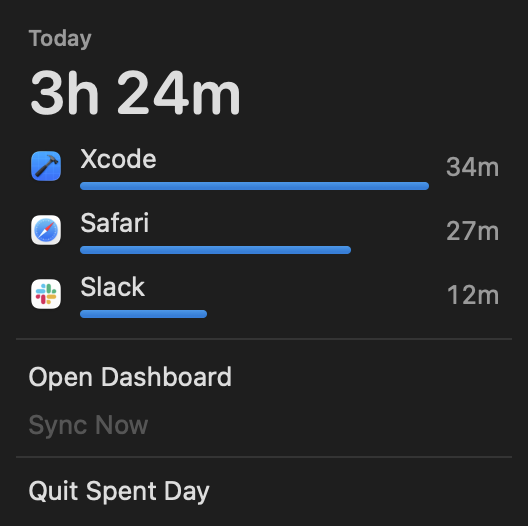
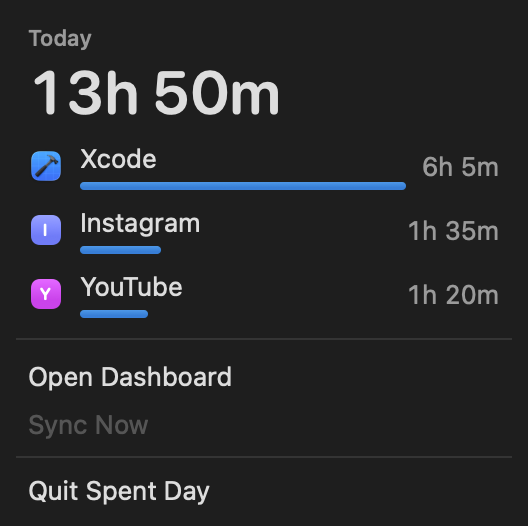
Refresh macOS screenshots for the treemap day view

diff --git a/apps/macos/README.md b/apps/macos/README.md
@@ -4,6 +4,20 @@ A menu bar app on top of the Rust core. `build.sh` builds `build/Spent Day.app`,
 
 It needs a Mac with Apple Silicon and Rust stable. The app runs on macOS 14 or later. Building needs Xcode 16 or later, or just its Command Line Tools, for Swift 6, and those need macOS 14.5 or later. `verify.sh` also needs jq. The scripts build for arm64 only, so Intel Macs aren't supported yet.
 
+## Day view
+
+The dashboard shows one local calendar day. Previous and next controls step days; Command-Left and Command-Right do the same. Next stops at today. The total counts time on overlapping screens once. Device groups show their separate totals.
+
+Tiles show apps and sites without icons. Hover for sessions, click a device name to fill the map with that device, or click a tile to see its sessions in time order. Tab and arrow keys move focus, Return opens a tile, and Escape goes back. Details shows overlapping time, the longest stretch, time after 23:00, and every app and site per device. Items under 0.3% of the day share an Other tile.
+
+The weekday comparison uses the previous four matching weekdays that have data. It appears only when at least two have data. For today, each historical sample ends at the current local time of day. Light and dark appearances follow the system. Tile colours come from local app icons or stable hashes, with black or white labels that keep at least 4.5:1 contrast when dimmed. Sites never fetch favicons.
+
+Run `apps/macos/test.sh` for collector, day bounds, layout and colour checks. Run `apps/macos/snapshot.sh` for the fixed 28 October 2026 demo day in dark and light appearances, Xcode hover, device and session drills, a 720 by 560 window, an empty day, and the menu panel. Snapshot hover and drill states are injected. The snapshot comparison uses the reference day's supplied usual Wednesday total; live comparisons read historical days from the core. Demo sessions repeat on the requested local day, and demo colours stay fixed across machines.
+
+![Day view](screenshots/dashboard-day-demo.png)
+
+A dev build can open a date with `--dashboard --day 2026-10-28`.
+
 ## Install
 
 From the repository root:
@@ -57,7 +71,7 @@ One AppleScript call resolves the front window once, by id, checks whether it is
 |---|---|
 | Chrome, Brave, Helium, Edge, Vivaldi, Opera | AppleScript `mode of w is "incognito"`, where `w` is the front window. The script returns nothing for it. Checked against the Chrome, Brave and Helium scripting dictionaries, and live in Chrome: an incognito window returns `{}`, a normal one its URL. Edge, Vivaldi and Opera are assumed to share Chrome's. |
 | Arc | AppleScript `incognito of w`. Not checked against a real install. |
-| Safari | It can't. Safari's scripting dictionary has no private-window property. So Safari sites are off by default: Spent Day never asks Safari for its page, calls `web_cleared`, and records Safari time with no site, which the dashboard shows as Other. Settings > General > Record Safari sites turns them on, and then private browsing in Safari is recorded like any other window. |
+| Safari | It can't. Safari's scripting dictionary has no private-window property. So Safari sites are off by default: Spent Day never asks Safari for its page, calls `web_cleared`, and records Safari time with no site, which the dashboard shows as Safari. Settings > General > Record Safari sites turns them on, and then private browsing in Safari is recorded like any other window. |
 | Firefox | The extension sends `"url": null` for a private window. |
 
 Other browsers aren't scripted, so their time goes to whatever the extension reports, or to no site.

diff --git a/README.md b/README.md
@@ -16,7 +16,7 @@
 </p>
 
 <p align="center">
-  <img src="apps/macos/screenshots/dashboard-lastSevenDays-demo.png" alt="The macOS dashboard with a week across a MacBook, a Pixel and a ThinkPad" height="320">
+  <img src="apps/macos/screenshots/dashboard-day-demo.png" alt="The macOS day treemap across three devices" height="320">
   <img src="docs/assets/linux-dashboard.png" alt="The Linux dashboard" height="320">
   <img src="apps/android/screenshots/dashboard.png" alt="The Android dashboard" height="320">
 </p>
